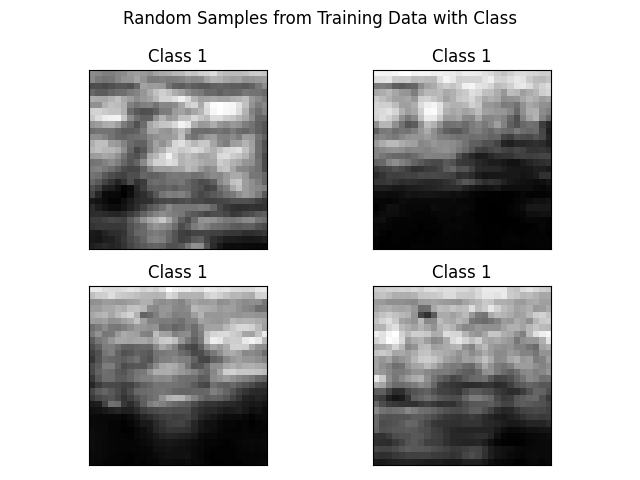
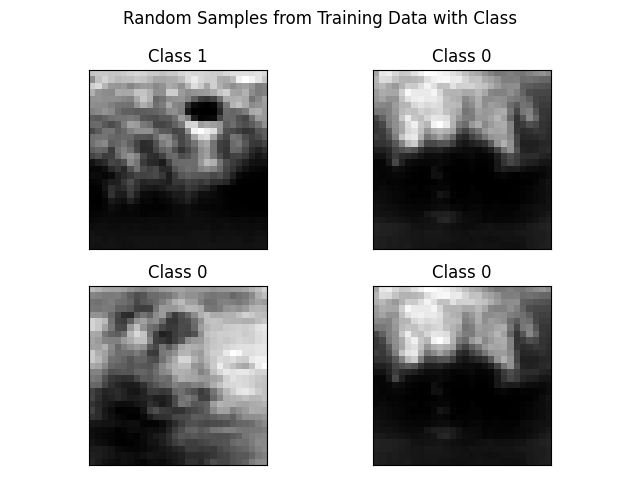
Task B also Done

diff --git a/main.py b/main.py
@@ -4,15 +4,16 @@ import torch.nn as nn
 import gc
 import time
 
-from Utility.utils import Download_Datasets, PreProcess_SK, PreProcess_Torch
-from Utility.utils import TestModel_Torch, Random_Sample_Visual, TrainingPlots
+from Utility.utils import Download_Datasets, PreProcess_SK, PreProcess_Torch, Random_Sample_Visual
+from Utility.utils import CNN_Train, TestModel_Torch, TrainingPlots
+
 from A.A_DecisionTree import A_DT_Train
 from A.A_BaggedDT import A_BaggingDT
-from A.A_CNN import A_CNN, A_CNN_Train
+from A.A_CNN import A_CNN
 
-#from B.B_DecisionTree import B_DT_Train
-#from B.B_BaggedDT import B_BaggingDT
-#from B.B_CNN import B_CNN, B_CNN_Train
+from B.B_DecisionTree import B_DT_Train
+from B.B_BaggedDT import B_BaggingDT
+from B.B_CNN import B_CNN 
 
 # ======================================================================================================================
 # Dataset Downloading
@@ -20,7 +21,7 @@ Download_Datasets()
 
 # ======================================================================================================================
 # Task A - Preprocessing
-print('============================== Task - A (BloodMNIST)  ==============================')
+print('============================== Task - A (BreastMNIST)  ==============================')
 X_train, X_val, X_test, y_train, y_val, y_test = PreProcess_SK('A')
 train_loader, val_loader, test_loader = PreProcess_Torch('A', batch_size = 32)
 
@@ -45,7 +46,7 @@ print('\n\n\n\n--------- Model 3 - Pytorch CNN   ---------')
 model_A_CNN = A_CNN(num_classes= 2)  # Build model object.
 n_epochs = 30
 
-model_A_CNN, train_losses, val_losses = A_CNN_Train(
+model_A_CNN, train_losses, val_losses = CNN_Train(
     model = model_A_CNN,
     train_loader = train_loader,
     val_loader = val_loader,
@@ -56,21 +57,49 @@ model_A_CNN, train_losses, val_losses = A_CNN_Train(
 )
 
 TrainingPlots(train_losses,val_losses,n_epochs,'A_CNN_loss')
-TestModel_Torch(model_A_CNN,test_loader,device,class_names)
+TestModel_Torch(model_A_CNN,test_loader,device,class_names,'A')
 time.sleep (4)
 
 gc.collect()
 torch.cuda.empty_cache()
 
+# ======================================================================================================================
+# Task B 
+print('\n\n\n\n\n\n\n\n\n\n============================== Task - B (BloodMNIST)  ==============================')
+X_train, X_val, X_test, y_train, y_val, y_test = PreProcess_SK('B')
+train_loader, val_loader, test_loader = PreProcess_Torch('B', batch_size = 32)
 
+device = torch.device("cuda" if torch.cuda.is_available() else "cpu")
+class_names = ['basophil', 'eosinophil', 'erythroblast', 'immature granulocytes', 'lymphocyte', 'monocyte', 'neutrophil', 'platelet']
 
+Random_Sample_Visual(2,2,train_loader,'B')
 
+# ======================================================================================================================
+# Model 1 - Decision Tree
+print('\n\n\n\n--------- Model 1 - Decision Tree   ---------')
+B_DT_Train(X_train, X_val, X_test, y_train, y_val, y_test,class_names)
+time.sleep (4)
 
-# # ======================================================================================================================
-# ## Print out your results with following format:
-# print('TA (Custom CNN):{:.5f},{:.5f}; TA (Transfer Learning):{:.5f},{:.5f};'.format(acc_A_train_self, acc_A_test_self,
-#                                                         acc_A_train_trans, acc_A_test_trans))
+# Model 2 - Bagging with Decision Trees
+print('\n\n\n\n--------- Model 2 - Bagging with Decision Trees   ---------')
+B_BaggingDT(X_train, X_val, X_test, y_train, y_val, y_test,class_names)
+time.sleep (4)
 
-# # If you are not able to finish a task, fill the corresponding variable with 'TBD'. For example:
-# # acc_A_train = 'TBD'
-# # acc_B_test = 'TBD'
+# Model 3 - Pytorch CNN
+print('\n\n\n\n--------- Model 3 - Pytorch CNN   ---------')
+model_B_CNN = B_CNN(num_classes= 8)  # Build model object.
+n_epochs = 25
+
+model_B_CNN, train_losses, val_losses = CNN_Train(
+    model = model_B_CNN,
+    train_loader = train_loader,
+    val_loader = val_loader,
+    n_epochs = n_epochs,
+    lr = 3e-5,
+    device = device,
+    criterion = nn.CrossEntropyLoss()
+)
+
+TrainingPlots(train_losses,val_losses,n_epochs,'B_CNN_loss')
+TestModel_Torch(model_B_CNN,test_loader,device,class_names,'B')
+time.sleep (4)

diff --git a/Utility/utils.py b/Utility/utils.py
@@ -5,9 +5,12 @@ import numpy as np
 import pandas as pd
 import os
 import torch
+import torch.optim as optim
 from sklearn.metrics import confusion_matrix, classification_report,accuracy_score, precision_score, recall_score, f1_score
 from torch.utils.data import TensorDataset, DataLoader
 from tqdm.auto import tqdm
+
+
 
 def Download_Datasets():
     """
@@ -178,6 +181,50 @@ def CM_Display(cm, class_names,title):
     plt.savefig(save_path, bbox_inches='tight')
     print(f"Confusion Matrix obtained and saved at: {save_path}")
 
+def CNN_Train(model, train_loader, val_loader, n_epochs, lr, device, criterion):
+    train_losses = []
+    val_losses = []
+    model.to(device)
+    optimizer = optim.Adam(model.parameters(), lr=lr)
+
+    for epoch in range(n_epochs):
+        # Training
+        model.train()
+        running_loss, total = 0.0, 0
+
+        # tqdm Progess Bar setup
+        loop = tqdm(train_loader, desc=f"Epoch {epoch+1}/{n_epochs}", leave=False)
+        for images, labels in loop:
+            images, labels = images.to(device), labels.to(device)
+            optimizer.zero_grad()
+            #forward pass
+            outputs = model(images)
+            loss = criterion(outputs, labels)
+            #backprop
+            loss.backward()
+            optimizer.step()
+            running_loss += loss.item() * images.size(0)
+            total += images.size(0)
+        avg_train_loss = running_loss / total
+        train_losses.append(avg_train_loss)
+
+        # Validation
+        model.eval()
+        val_loss, val_total = 0.0, 0
+        with torch.no_grad():
+            for images, labels in val_loader:
+                images, labels = images.to(device), labels.to(device)
+                #only forward pass since no training
+                outputs = model(images)
+                loss = criterion(outputs, labels)
+                val_loss += loss.item() * images.size(0)
+                val_total += images.size(0)
+            avg_val_loss = val_loss / val_total
+            val_losses.append(avg_val_loss)
+        print(f"Epoch {epoch+1}/{n_epochs} | Train Loss: {avg_train_loss:.4f} | Val Loss: {avg_val_loss:.4f}")
+    return model, train_losses, val_losses
+
+
 
 def TrainingPlots(train_losses,val_losses,n_epochs,title):
     plt.figure(figsize=(10,6))
@@ -192,7 +239,7 @@ def TrainingPlots(train_losses,val_losses,n_epochs,title):
     plt.savefig(save_path, bbox_inches='tight')
     print(f"Training Loss plot obtained and saved at: {save_path}")
 
-def TestModel_Torch(model, data_loader, device,class_names):
+def TestModel_Torch(model, data_loader, device,class_names,task):
     model.eval()
     preds = []
     targets = []
@@ -205,4 +252,7 @@ def TestModel_Torch(model, data_loader, device,class_names):
             preds.extend(predicted.cpu().numpy())
             targets.extend(labels.cpu().numpy())
     cm = TestModel(targets,preds,class_names)
-    CM_Display(cm, class_names,'CM_A_CNN')
+    if (task == 'B'):
+        CM_Display(cm, class_names,'CM_B_CNN')
+    else:
+        CM_Display(cm, class_names,'CM_A_CNN')

diff --git a/B/B_CNN.py b/B/B_CNN.py
@@ -1,26 +1,29 @@
 import torch
 import torch.nn as nn
 
-
-class A_CNN(nn.Module):
-    def __init__(self, num_classes=2):
+class B_CNN(nn.Module):
+    def __init__(self, num_classes=8):
         super().__init__()
 
-        # Feature Extractor Section
+        # Block 1
         self.block = nn.Sequential(
-            nn.Conv2d(1, 32, kernel_size=3, padding=1),
+            nn.Conv2d(3, 32, kernel_size=3, padding=1),
             nn.BatchNorm2d(32),
             nn.ReLU(),
-            nn.MaxPool2d(kernel_size=2),  
+            nn.MaxPool2d(kernel_size=2), 
+            nn.Conv2d(32, 64, kernel_size=3, padding=1),
+            nn.BatchNorm2d(64),
+            nn.ReLU(),
+            nn.MaxPool2d(kernel_size=2),   
         )
 
         # Final Classifier Section
         self.classifier = nn.Sequential(
             nn.Flatten(),              # (64, 1, 1) → (64)
-            nn.Linear(6272, 256),
+            nn.Linear(3136, 256),
             nn.ReLU(), 
             nn.Dropout(0.5), 
-            nn.Linear(256, num_classes),  # 2 classes
+            nn.Linear(256, num_classes),  # 8 classes
             nn.Sigmoid()
         )
 
@@ -28,4 +31,3 @@ class A_CNN(nn.Module):
         x = self.block(x)
         x = self.classifier(x)
         return x
-    

diff --git a/B/B_BaggedDT.py b/B/B_BaggedDT.py
@@ -1,0 +1,31 @@
+from sklearn.tree import DecisionTreeClassifier
+from sklearn.ensemble import BaggingClassifier
+from sklearn.model_selection import GridSearchCV
+from Utility.utils import TestModel , CM_Display
+
+def B_BaggingDT(X_train, X_val, X_test, y_train, y_val, y_test, class_names):
+
+    base_model = DecisionTreeClassifier(random_state=0)
+    bag_model = BaggingClassifier(estimator=base_model, random_state=0, n_jobs=-1)
+
+    params = {
+        "estimator__criterion": ["entropy"],
+        "max_features": [12],
+        "n_estimators": [25],
+        "max_samples": [1.0],
+        "bootstrap": [True],           
+    }
+
+    grid = GridSearchCV(
+        estimator=bag_model,
+        param_grid=params,
+        scoring="accuracy",
+        cv=3,
+        n_jobs=-1,
+        verbose=1,
+        refit=True
+    )
+    grid.fit(X_train, y_train)
+    y_pred = grid.best_estimator_.predict(X_test)
+    cm = TestModel(y_test,y_pred,class_names)
+    CM_Display(cm,class_names,'CM_B_Bag')

diff --git a/B/B_DecisionTree.py b/B/B_DecisionTree.py
@@ -1,0 +1,26 @@
+from sklearn.tree import DecisionTreeClassifier
+from sklearn.model_selection import GridSearchCV
+from Utility.utils import TestModel , CM_Display
+
+def B_DT_Train(X_train, X_val, X_test, y_train, y_val, y_test, class_names):
+    model = DecisionTreeClassifier(random_state=0)
+    params = {
+        "criterion": ["entropy"],
+        "min_samples_split": [23],  # 2..30
+        "max_features": [12],       # 1..29
+        "max_depth": [7],          # 1..29
+    }
+    grid = GridSearchCV(
+        estimator=model,
+        param_grid=params,
+        scoring="accuracy",
+        cv=3,
+        n_jobs=-1,
+        verbose=1,
+        refit=True
+    )
+    grid.fit(X_train, y_train)
+    y_pred = grid.predict(X_test)
+    cm = TestModel(y_test,y_pred,class_names)
+    CM_Display(cm,class_names,'CM_B_DT')
+    
